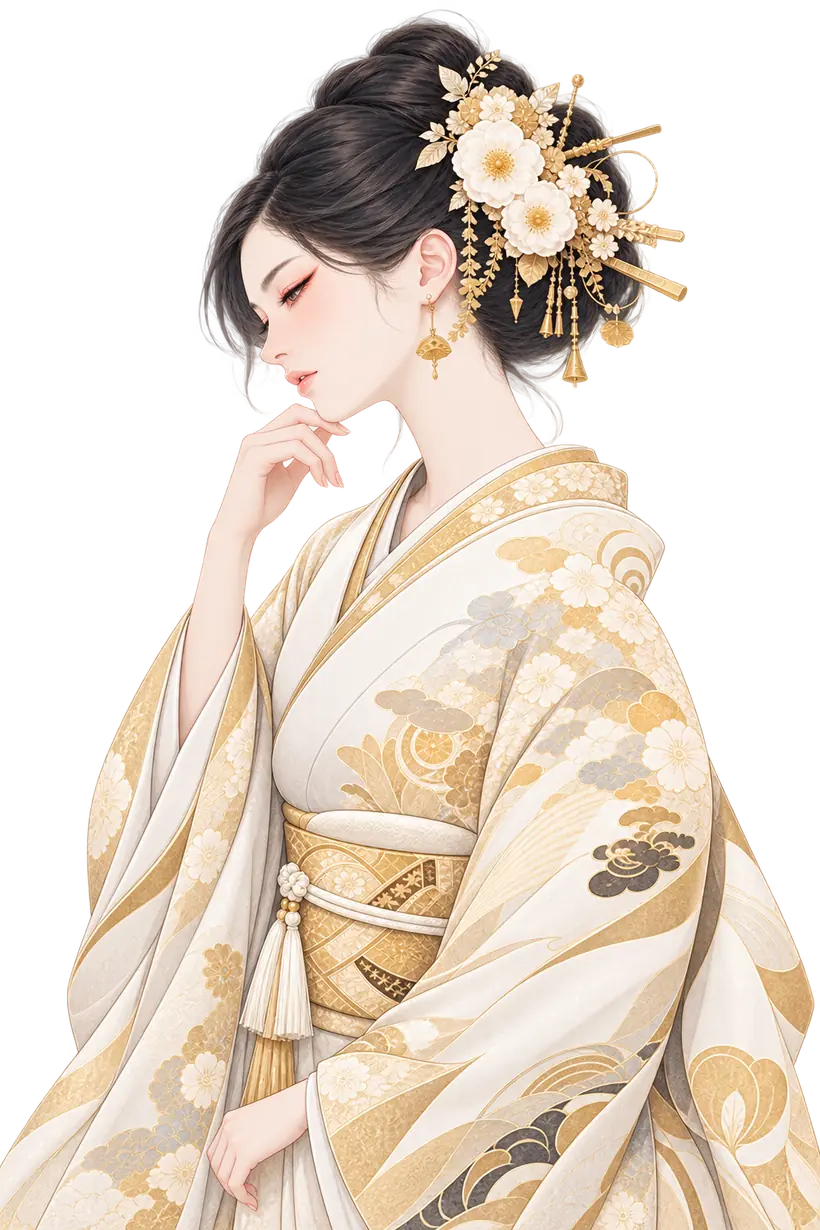
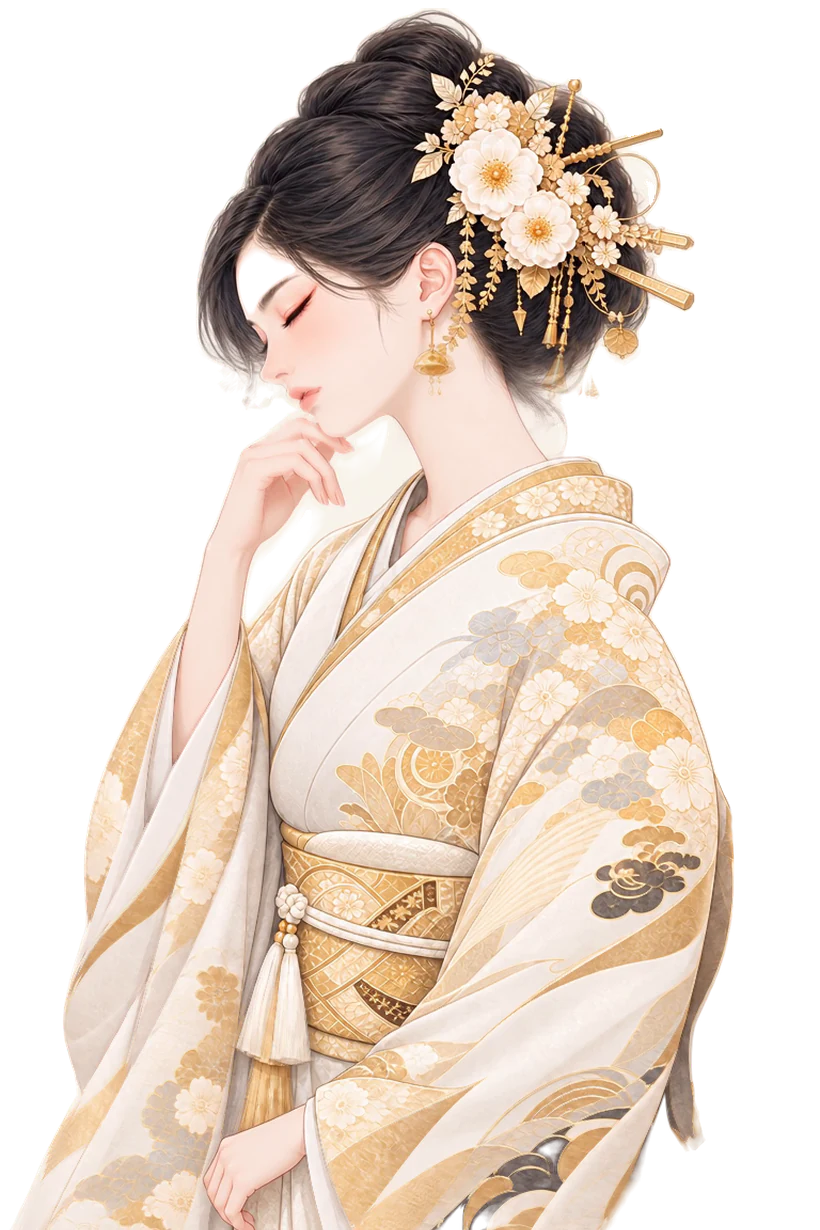
Let the woman in the hero feel the wind and open her eyes
Replace the still hero figure with a 4-second transparent loop cut from
top15sec.mp4. The source only opens the eyes once, so the loop plays the
2-second run forward and back: she lifts her head, opens her eyes, and
settles again.

Only the head moves in the source, so the body is frozen to the temporal
median and the two are cross-faded vertically. That kills the generative
shimmer and keeps the animation to a 544x410 rectangle, which is what
makes 24 frames fit in 809KB.

The still is served first and swapped for the animation after load, so
the first paint is unchanged. Reduced-motion, save-data and 2G stay on
the still.

diff --git a/index.html b/index.html
@@ -893,6 +893,31 @@ footer{background:var(--ink);color:var(--paper);padding:44px var(--gut) 34px;pos
     } else { b.classList.add('done'); }
   }
 
+  /* hero: まず静止画を出し、読み込みが済んでから
+     「風を受けて目を閉じたり開いたり」するアニメWebPへ静かに差し替える。
+     ・prefers-reduced-motion / 通信節約モード / 2G のときは静止画のまま
+     ・アニメの1コマ目は hero.webp と同じ絵なので、切り替わりは見えない */
+  (function(){
+    if(reduce) return;
+    var c = navigator.connection || {};
+    if(c.saveData) return;
+    if(/2g/.test(c.effectiveType || '')) return;
+    var img = document.querySelector('.hero-figure img');
+    if(!img) return;
+    var src = window.matchMedia('(min-width:900px)').matches
+              ? 'assets/hero-anim.webp' : 'assets/hero-anim-sm.webp';
+    var swap = function(){
+      var pre = new Image();
+      pre.onload = function(){
+        img.removeAttribute('srcset'); img.removeAttribute('sizes');
+        img.src = src;
+      };
+      pre.src = src;
+    };
+    if(document.readyState === 'complete'){ setTimeout(swap, 400); }
+    else { window.addEventListener('load', function(){ setTimeout(swap, 400); }); }
+  })();
+
   /* hero parallax (pointer devices only) */
   if(!reduce && window.matchMedia('(min-width:900px) and (hover:hover)').matches){
     var hf = document.getElementById('hf'), tx=0, ty=0, cx=0, cy=0, raf=null;
